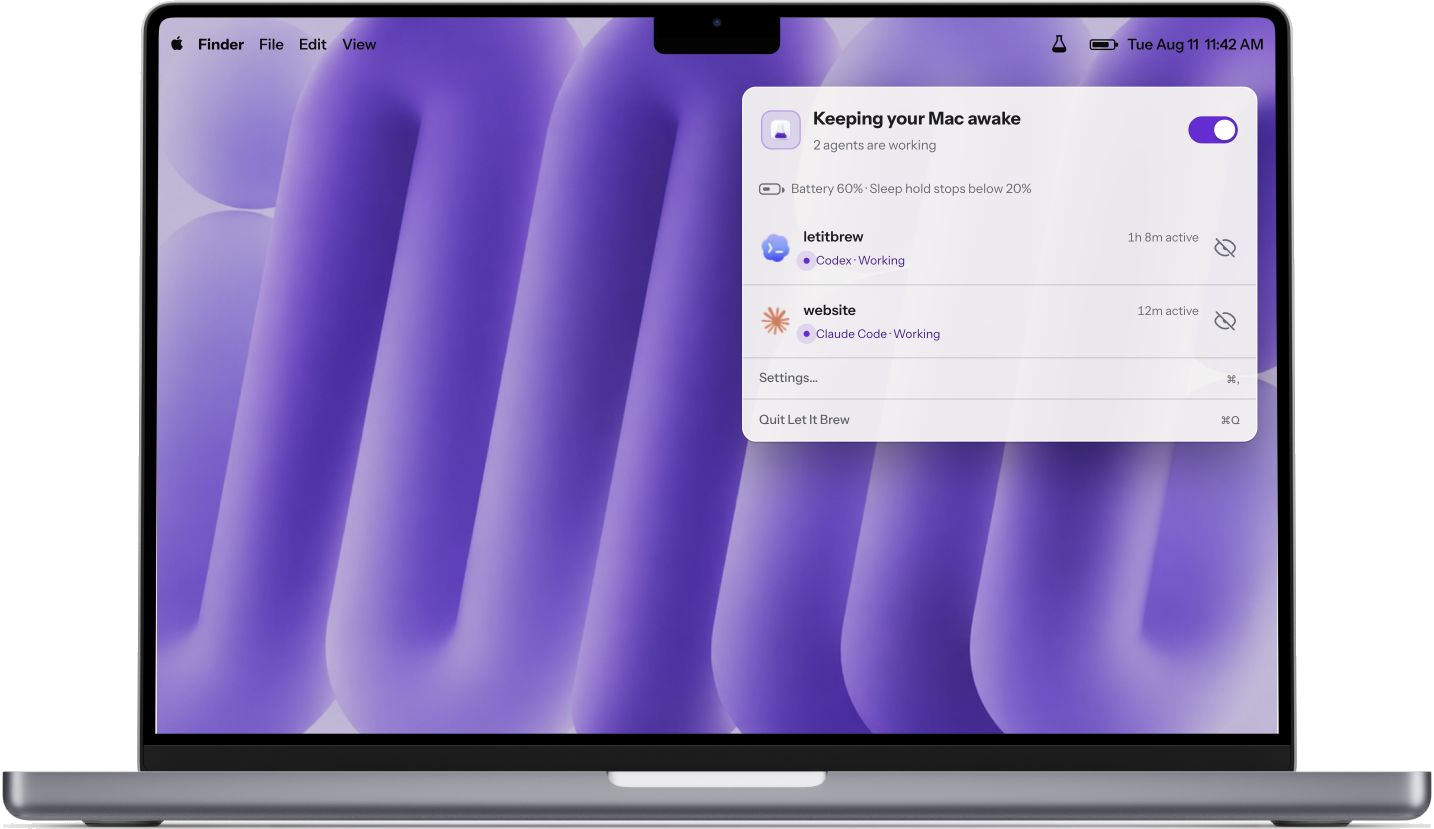
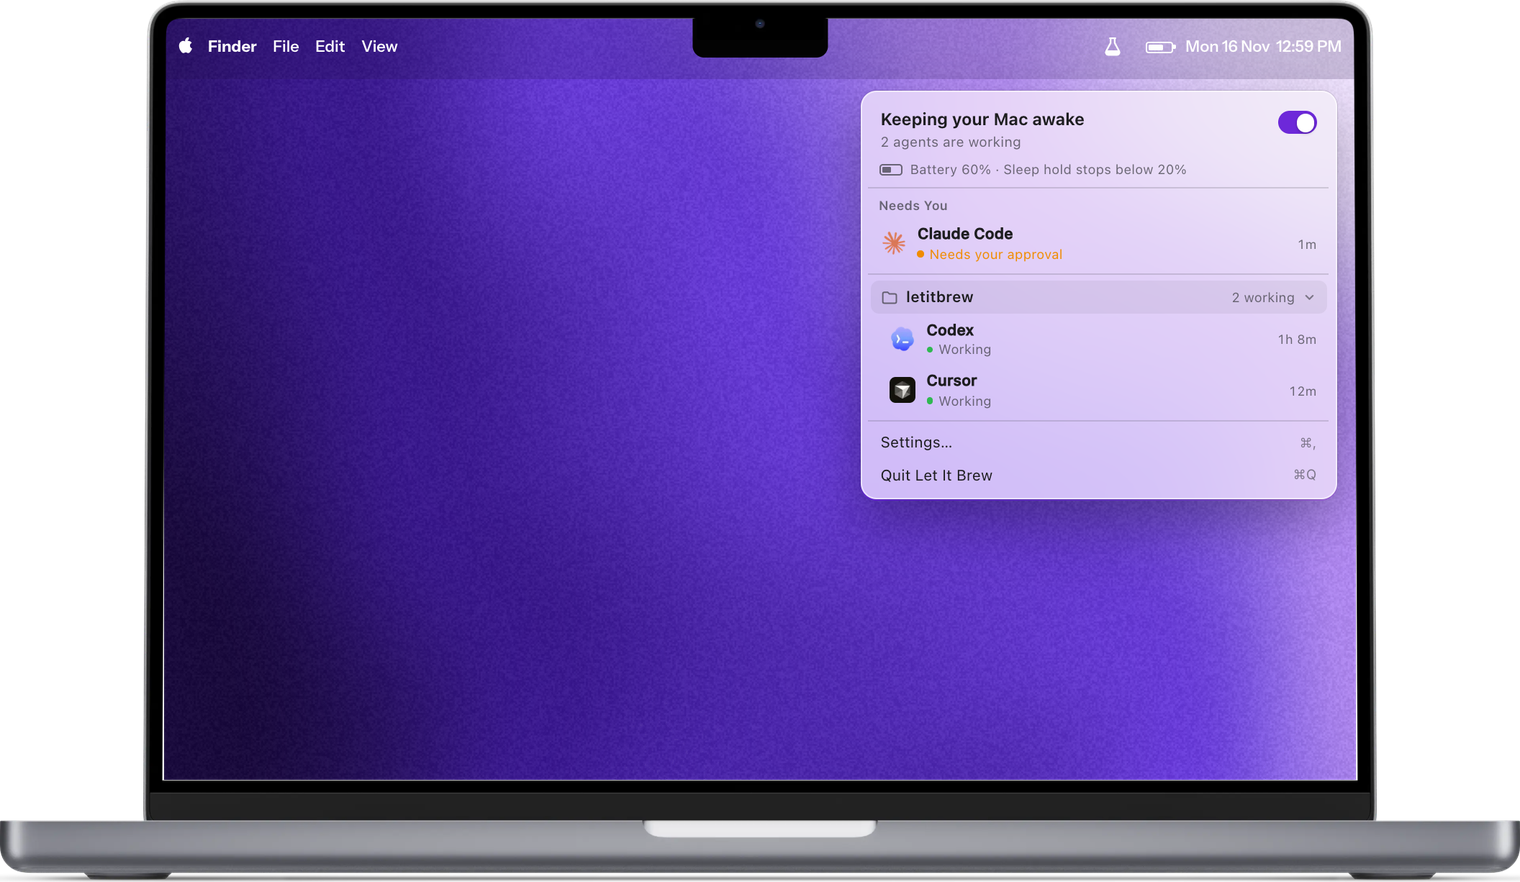
Show the 1.0 menu in the README image
Replace the pre-1.0 menu screenshot with the 1.0 menu from the
website: Needs You first, a working folder, and green and orange
status. The image keeps a transparent background for GitHub's light
and dark themes.

diff --git a/README.md b/README.md
@@ -23,7 +23,7 @@ Version 1.0.1 (build 46) &middot;
 [Release notes and SHA-256](https://github.com/ruban-24/letitbrew/releases/latest) &middot;
 [letitbrew.app](https://letitbrew.app)
 
-<img src=".github/assets/hero-macbook.png" width="760" alt="Let It Brew's current menu showing an enabled awake hold, battery controls, and working Codex and Claude Code sessions">
+<img src=".github/assets/hero-macbook.png" width="760" alt="Let It Brew's 1.0 menu on a MacBook: Claude Code needs your approval, and Codex and Cursor are working">
 
 </div>
 
